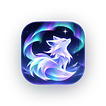
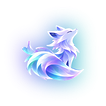
feat(brand): 界面内标志改用去背景的极光狐主体
新增主体母版 desktop/revon-mark.png：从磁贴里只抠出狐狸，去掉夜空、
群山、星星和极光带（透明底）。

- 界面内标志 revon-logo-{52,78,104}、brand-mark、brand-hero 改用主体；
  hero 光晕改为沿狐狸轮廓的紫→青绿极光色。
- 桌面/任务栏图标 revon.ico 和 VS Code 扩展图标保持完整磁贴不变。
- make_icon.py 新增 --recut；生成主体需要 numpy + opencv，两个母版
  已入库时日常构建仍只需 Pillow。

diff --git a/revon-gui/desktop/make_icon.py b/revon-gui/desktop/make_icon.py
@@ -1,20 +1,24 @@
 """从品牌原图生成图标与界面标志（可重复执行）。
 
 输入：品牌原图——已画好的圆角磁贴（Revon 极光狐），四周纯黑底。
-      显式传入外部原图时，抠掉黑底、裁成正方形后存为 desktop/revon-logo.png（母版）。
+两个母版：
+    desktop/revon-logo.png   磁贴母版：抠掉磁贴外的黑底，保留夜空背景
+    desktop/revon-mark.png   主体母版：再去掉夜空、群山和极光，只留狐狸（透明底）
 输出：
-    desktop/revon.ico                     打包用应用图标（磁贴本身，圆角外透明，多尺寸）
-    desktop/revon.png                     256px 预览
-    ../assets/revon-logo-{52,78,104}.png  界面用标志（同一磁贴，供 tk.PhotoImage / QML）
-    ../../vscode-extension/media/revon-logo.png  VS Code 扩展图标（256px）
+    desktop/revon.ico                     桌面/任务栏图标 ← 磁贴（多尺寸）
+    desktop/revon.png                     256px 预览 ← 磁贴
+    ../../vscode-extension/media/revon-logo.png  VS Code 扩展图标 ← 磁贴（256px）
+    ../assets/revon-logo-{52,78,104}.png  界面内标志 ← 主体（透明底）
 
-界面里的 brand-mark / brand-hero 由 make_ui_assets.py 从同一母版派生。
+界面里的 brand-mark / brand-hero 由 make_ui_assets.py 从主体母版派生。
+生成主体母版需要 numpy + opencv-python；两个母版都已入库时，日常构建只需 Pillow。
 
 若原图不存在，回退到程序化绘制的 Indigo「F」图标（保持老行为）。
 
 用法：
-    python make_icon.py                 # 用 desktop/revon-logo.png（若存在）
-    python make_icon.py <原图路径>
+    python make_icon.py                 # 用已入库的两个母版重新导出
+    python make_icon.py <原图路径>       # 换新原图：重建两个母版
+    python make_icon.py --recut         # 只按磁贴母版重新抠主体
 """
 from __future__ import annotations
 
@@ -26,6 +30,7 @@ from PIL import Image, ImageDraw, ImageFilter, ImageFont
 HERE = Path(__file__).resolve().parent
 ASSETS = HERE.parent / "assets"
 DEFAULT_SOURCE = HERE / "revon-logo.png"
+FIGURE_MASTER = HERE / "revon-mark.png"
 
 ICO_SIZES = (256, 128, 64, 48, 32, 24, 16)
 UI_SIZES = (52, 78, 104)
@@ -103,6 +108,50 @@ def tile_master(raw: Image.Image) -> Image.Image:
     return square
 
 
+def figure_master(tile: Image.Image) -> Image.Image:
+    """磁贴 → 只含狐狸主体的透明图（去夜空、群山、星星和极光带）。
+
+    狐狸是画面里最亮的部分：取高亮区域的最大连通块作骨架，填满其内部，
+    再把内部仍是深色夜空的缝隙按亮度渐隐掉，最后去掉边缘混进来的夜空色。
+    """
+    import cv2
+    import numpy as np
+
+    arr = np.asarray(tile.convert("RGBA")).astype(np.float32)
+    rgb, tile_alpha = arr[..., :3], arr[..., 3]
+    lum = rgb @ np.array([0.299, 0.587, 0.114], np.float32)
+    seed = ((lum > 150) & (tile_alpha > 200)).astype(np.uint8)
+    seed = cv2.morphologyEx(seed, cv2.MORPH_CLOSE, np.ones((7, 7), np.uint8))
+    # 开运算切断狐尾与极光带之间的细连接，取最大块即狐狸
+    k = cv2.getStructuringElement(cv2.MORPH_ELLIPSE, (15, 15))
+    count, labels, stats, _ = cv2.connectedComponentsWithStats(
+        cv2.morphologyEx(seed, cv2.MORPH_OPEN, k), 8)
+    if count < 2:
+        raise ValueError("找不到高亮主体，无法抠图")
+    core = (labels == 1 + int(np.argmax(stats[1:, cv2.CC_STAT_AREA]))).astype(np.uint8)
+    # 把开运算削掉的耳尖、毛尖长回来（只长回高亮区域）
+    grown = cv2.dilate(core, cv2.getStructuringElement(cv2.MORPH_ELLIPSE, (19, 19))) & seed
+    body = grown * 255
+    outside = body.copy()
+    cv2.floodFill(outside, np.zeros((body.shape[0] + 2, body.shape[1] + 2), np.uint8), (0, 0), 255)
+    solid = (body | cv2.bitwise_not(outside)).astype(np.float32)
+    solid = cv2.GaussianBlur(solid, (0, 0), 2.5)
+    solid = np.clip((solid - 127) * 3 + 127, 0, 255) / 255          # 平滑轮廓，约 2px 软边
+    soft_lum = cv2.GaussianBlur(lum, (0, 0), 2.0)
+    inside = np.clip((soft_lum - 30) / (70 - 30), 0, 1)             # 内部深色夜空缝隙 → 透明
+    alpha = solid * inside
+    sky = np.array([8, 14, 48], np.float32)                         # 去边缘夜空色混色
+    a3 = np.clip(alpha, 1e-3, 1)[..., None]
+    fg = np.where(a3 > 0.98, rgb, np.clip((rgb - (1 - a3) * sky) / a3, 0, 255))
+    out = Image.fromarray(np.dstack([fg, alpha * 255]).astype(np.uint8), "RGBA")
+    box = out.getchannel("A").point(lambda v: 255 if v > 8 else 0).getbbox()
+    out = out.crop(box)
+    side = int(max(out.size) * 1.04)
+    square = Image.new("RGBA", (side, side), (0, 0, 0, 0))
+    square.alpha_composite(out, ((side - out.width) // 2, (side - out.height) // 2))
+    return square
+
+
 def scaled(master: Image.Image, size: int) -> Image.Image:
     """缩放到目标尺寸；小尺寸补一点锐化，免得插画糊成一团。"""
     out = master.resize((size, size), Image.LANCZOS)
@@ -112,7 +161,9 @@ def scaled(master: Image.Image, size: int) -> Image.Image:
 
 
 def main() -> int:
-    src = Path(sys.argv[1]) if len(sys.argv) > 1 else DEFAULT_SOURCE
+    args = [a for a in sys.argv[1:] if a != "--recut"]
+    recut = "--recut" in sys.argv[1:]
+    src = Path(args[0]) if args else DEFAULT_SOURCE
     # 防降质：输入必须是原始位图，绝不能拿生成出来的 .ico 当源
     if src.suffix.lower() == ".ico":
         print(f"拒绝：{src.name} 是生成产物，不能当输入图。"
@@ -139,6 +190,13 @@ def main() -> int:
         master = tile_master(raw)
         master.save(DEFAULT_SOURCE, optimize=True)
         print(f"master : {DEFAULT_SOURCE}  ({master.size[0]}x{master.size[1]})")
+        recut = True
+    if recut or not FIGURE_MASTER.is_file():
+        figure = figure_master(master)
+        figure.save(FIGURE_MASTER, optimize=True)
+        print(f"figure : {FIGURE_MASTER}  ({figure.size[0]}x{figure.size[1]})")
+    else:
+        figure = Image.open(FIGURE_MASTER).convert("RGBA")
 
     frames = [scaled(master, n) for n in ICO_SIZES]
     frames[0].save(out_ico, format="ICO", sizes=[(n, n) for n in ICO_SIZES],
@@ -150,7 +208,7 @@ def main() -> int:
     ASSETS.mkdir(parents=True, exist_ok=True)
     for n in UI_SIZES:
         out = ASSETS / f"revon-logo-{n}.png"
-        scaled(master, n).save(out, optimize=True)
+        scaled(figure, n).save(out, optimize=True)
         print(f"ui     : {out}  ({out.stat().st_size} bytes)")
     if VSCODE_ICON.parent.is_dir():
         scaled(master, 256).save(VSCODE_ICON, optimize=True)

diff --git a/revon-gui/desktop/make_ui_assets.py b/revon-gui/desktop/make_ui_assets.py
@@ -77,14 +77,14 @@ def icon_tile(shapes, size, color):
     return tile.resize((size, size), Image.Resampling.LANCZOS)
 
 
-BRAND_MASTER = GUI / "desktop" / "revon-logo.png"
+BRAND_MASTER = GUI / "desktop" / "revon-mark.png"
 
 
 def brand_mark(size, *, glow=0):
-    """品牌块：优先用 Revon 极光狐母版（desktop/revon-logo.png，make_icon.py 产出）。
+    """品牌标志：Revon 极光狐主体（desktop/revon-mark.png，透明底，make_icon.py 产出）。
 
-    glow > 0 时四周留出 glow 像素的极光色光晕（首页 hero 用）。Tk 无渐变/
-    模糊能力，所以在构建期烘焙成 PNG，运行时只读 PhotoImage。
+    glow > 0 时四周留出 glow 像素、沿狐狸轮廓的极光色光晕（首页 hero 用）。
+    Tk 无渐变/模糊能力，所以在构建期烘焙成 PNG，运行时只读 PhotoImage。
     母版缺失时回退到旧的 Ember 熔铁 + 铁砧程序化品牌块。
     """
     from PIL import ImageFilter
@@ -92,20 +92,21 @@ def brand_mark(size, *, glow=0):
         scale = 4
         full = (size + glow * 2) * scale
         out = Image.new("RGBA", (full, full))
-        tile_px = size * scale
+        mark_px = size * scale
         origin = glow * scale
+        master = Image.open(BRAND_MASTER).convert("RGBA").resize((mark_px, mark_px), Image.Resampling.LANCZOS)
         if glow:
-            # 青绿→紫的极光晕，与磁贴里的极光带同色系
-            halo = Image.new("RGBA", (full, full))
-            hd = ImageDraw.Draw(halo)
-            hd.rounded_rectangle((origin + tile_px * .06, origin + tile_px * .14,
-                                  origin + tile_px * .62, origin + tile_px * 1.02),
-                                 radius=tile_px * .3, fill=(64, 224, 196, 170))
-            hd.rounded_rectangle((origin + tile_px * .38, origin + tile_px * .10,
-                                  origin + tile_px * .94, origin + tile_px * 1.0),
-                                 radius=tile_px * .3, fill=(150, 104, 255, 190))
-            out.alpha_composite(halo.filter(ImageFilter.GaussianBlur(glow * scale * .42)))
-        master = Image.open(BRAND_MASTER).convert("RGBA").resize((tile_px, tile_px), Image.Resampling.LANCZOS)
+            # 紫（左）→ 青绿（右）的极光晕，形状取狐狸轮廓
+            silhouette = Image.new("L", (full, full))
+            silhouette.paste(master.getchannel("A"), (origin, origin))
+            silhouette = silhouette.filter(ImageFilter.GaussianBlur(glow * scale * .45))
+            silhouette = silhouette.point(lambda v: min(255, int(v * 1.6)))
+            colour = Image.linear_gradient("L").rotate(90).resize((full, full))
+            halo = Image.composite(Image.new("RGBA", (full, full), (150, 104, 255, 255)),
+                                   Image.new("RGBA", (full, full), (64, 224, 196, 255)),
+                                   colour.transpose(Image.Transpose.FLIP_LEFT_RIGHT))
+            halo.putalpha(silhouette.point(lambda v: v * 200 // 255))
+            out.alpha_composite(halo)
         out.alpha_composite(master, (origin, origin))
         out = out.resize((size + glow * 2, size + glow * 2), Image.Resampling.LANCZOS)
         if size <= 64:
